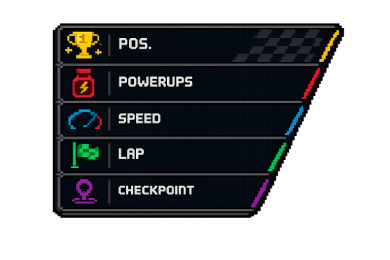
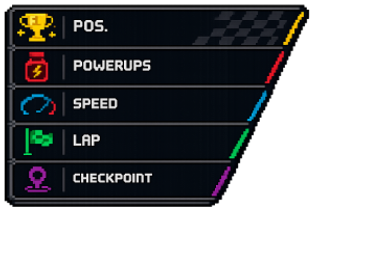
Aligned the values in HUD

diff --git a/karkart/screens/gameplay.py b/karkart/screens/gameplay.py
@@ -573,7 +573,7 @@ class GamePlay:
         return int(fx * screen_w / frame_w), int(fy * screen_h / frame_h)
 
     def draw_hud(self, screen: pygame.Surface, snapshot: WorldSnapshot) -> None:
-        screen.blit(self.hud_img, (8, 8))
+        screen.blit(self.hud_img, (4, 4))
 
         total_cps = len(self.current_map.checkpoints_list) or 1
         cp_in_lap = snapshot.player_racer.list_counter
@@ -585,7 +585,6 @@ class GamePlay:
         if self.mode_name == "Time Trial":
             HUD_lines =[
             f"   {snapshot.position_label}",
-            f" {powerup}",
             f"{kph}kmh",
             f" {lap}/3",
             f" {cp_in_lap}/{total_cps}",]
@@ -598,17 +597,28 @@ class GamePlay:
             f" {lap}/3",
             f" {cp_in_lap}/{total_cps}",
         ]
-
-        padding = 2.5
-        rendered = [
+        
+        if self.mode_name == "Time Trial":
+            padding = 2.5
+            rendered = [
             self._hud_font.render(text, True, (255, 255, 255)) for text in HUD_lines
-        ]
+            ]
 
+            y = 30 + padding
+            for surf in rendered:
+                screen.blit(surf, (200 + padding, y))
+                y += 28 + surf.get_height()
 
-        y = 28 + padding
-        for surf in rendered:
-            screen.blit(surf, (150 + padding, y))
-            y += 26 + surf.get_height()
+        else:
+            padding = 2.5
+            rendered = [
+                self._hud_font.render(text, True, (255, 255, 255)) for text in HUD_lines
+            ]
+
+            y = 20 + padding
+            for surf in rendered:
+                screen.blit(surf, (150 + padding, y))
+                y += 23 + surf.get_height()
 
         self._draw_minimap(screen, snapshot)
 
